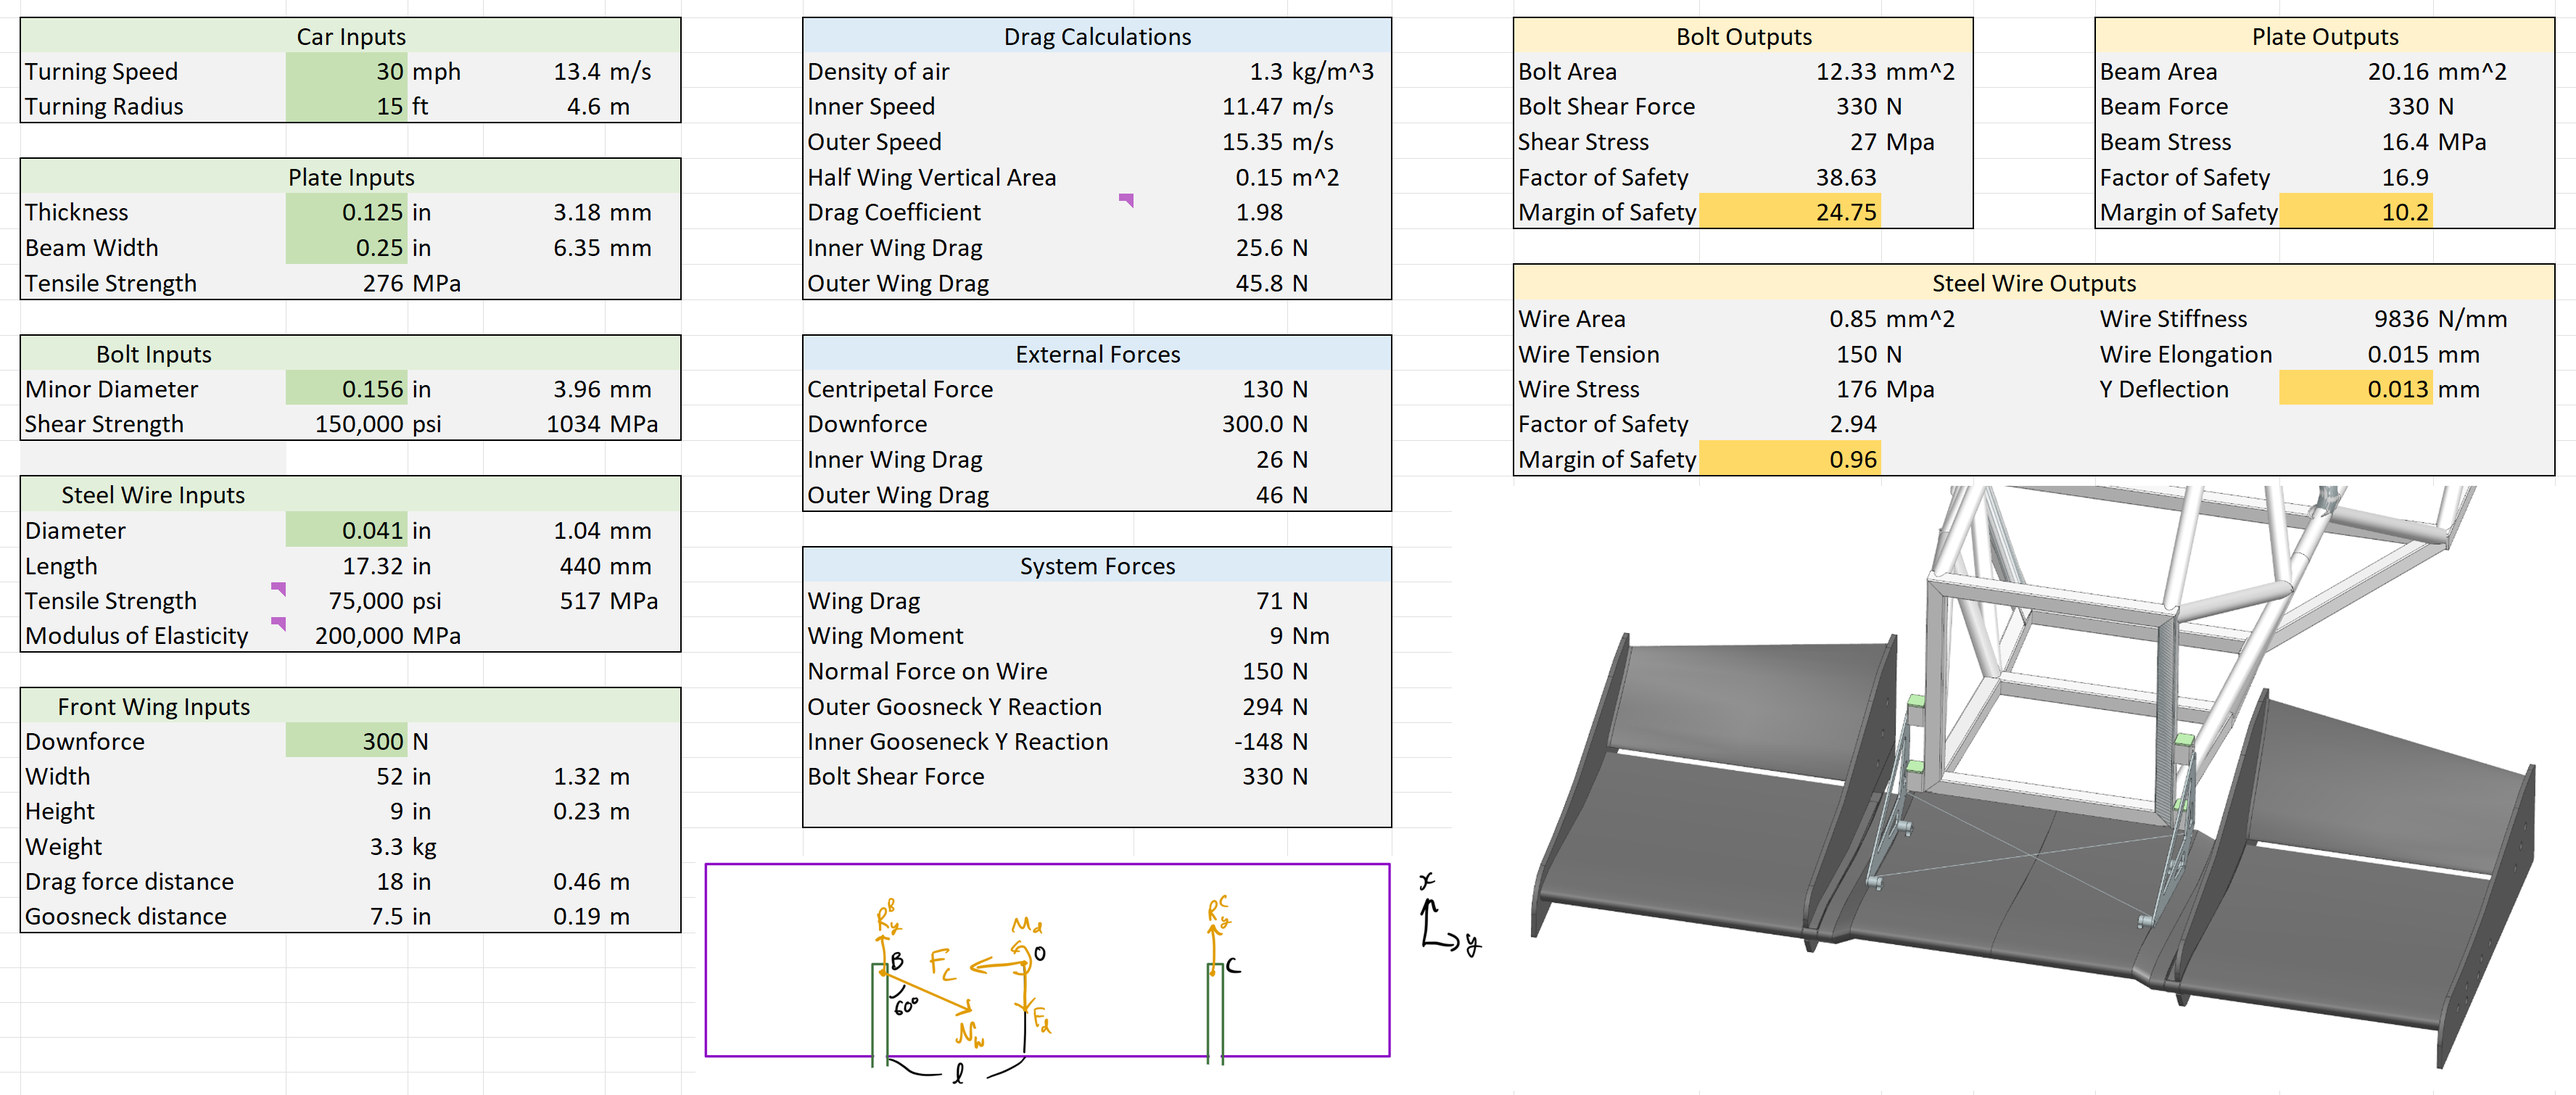
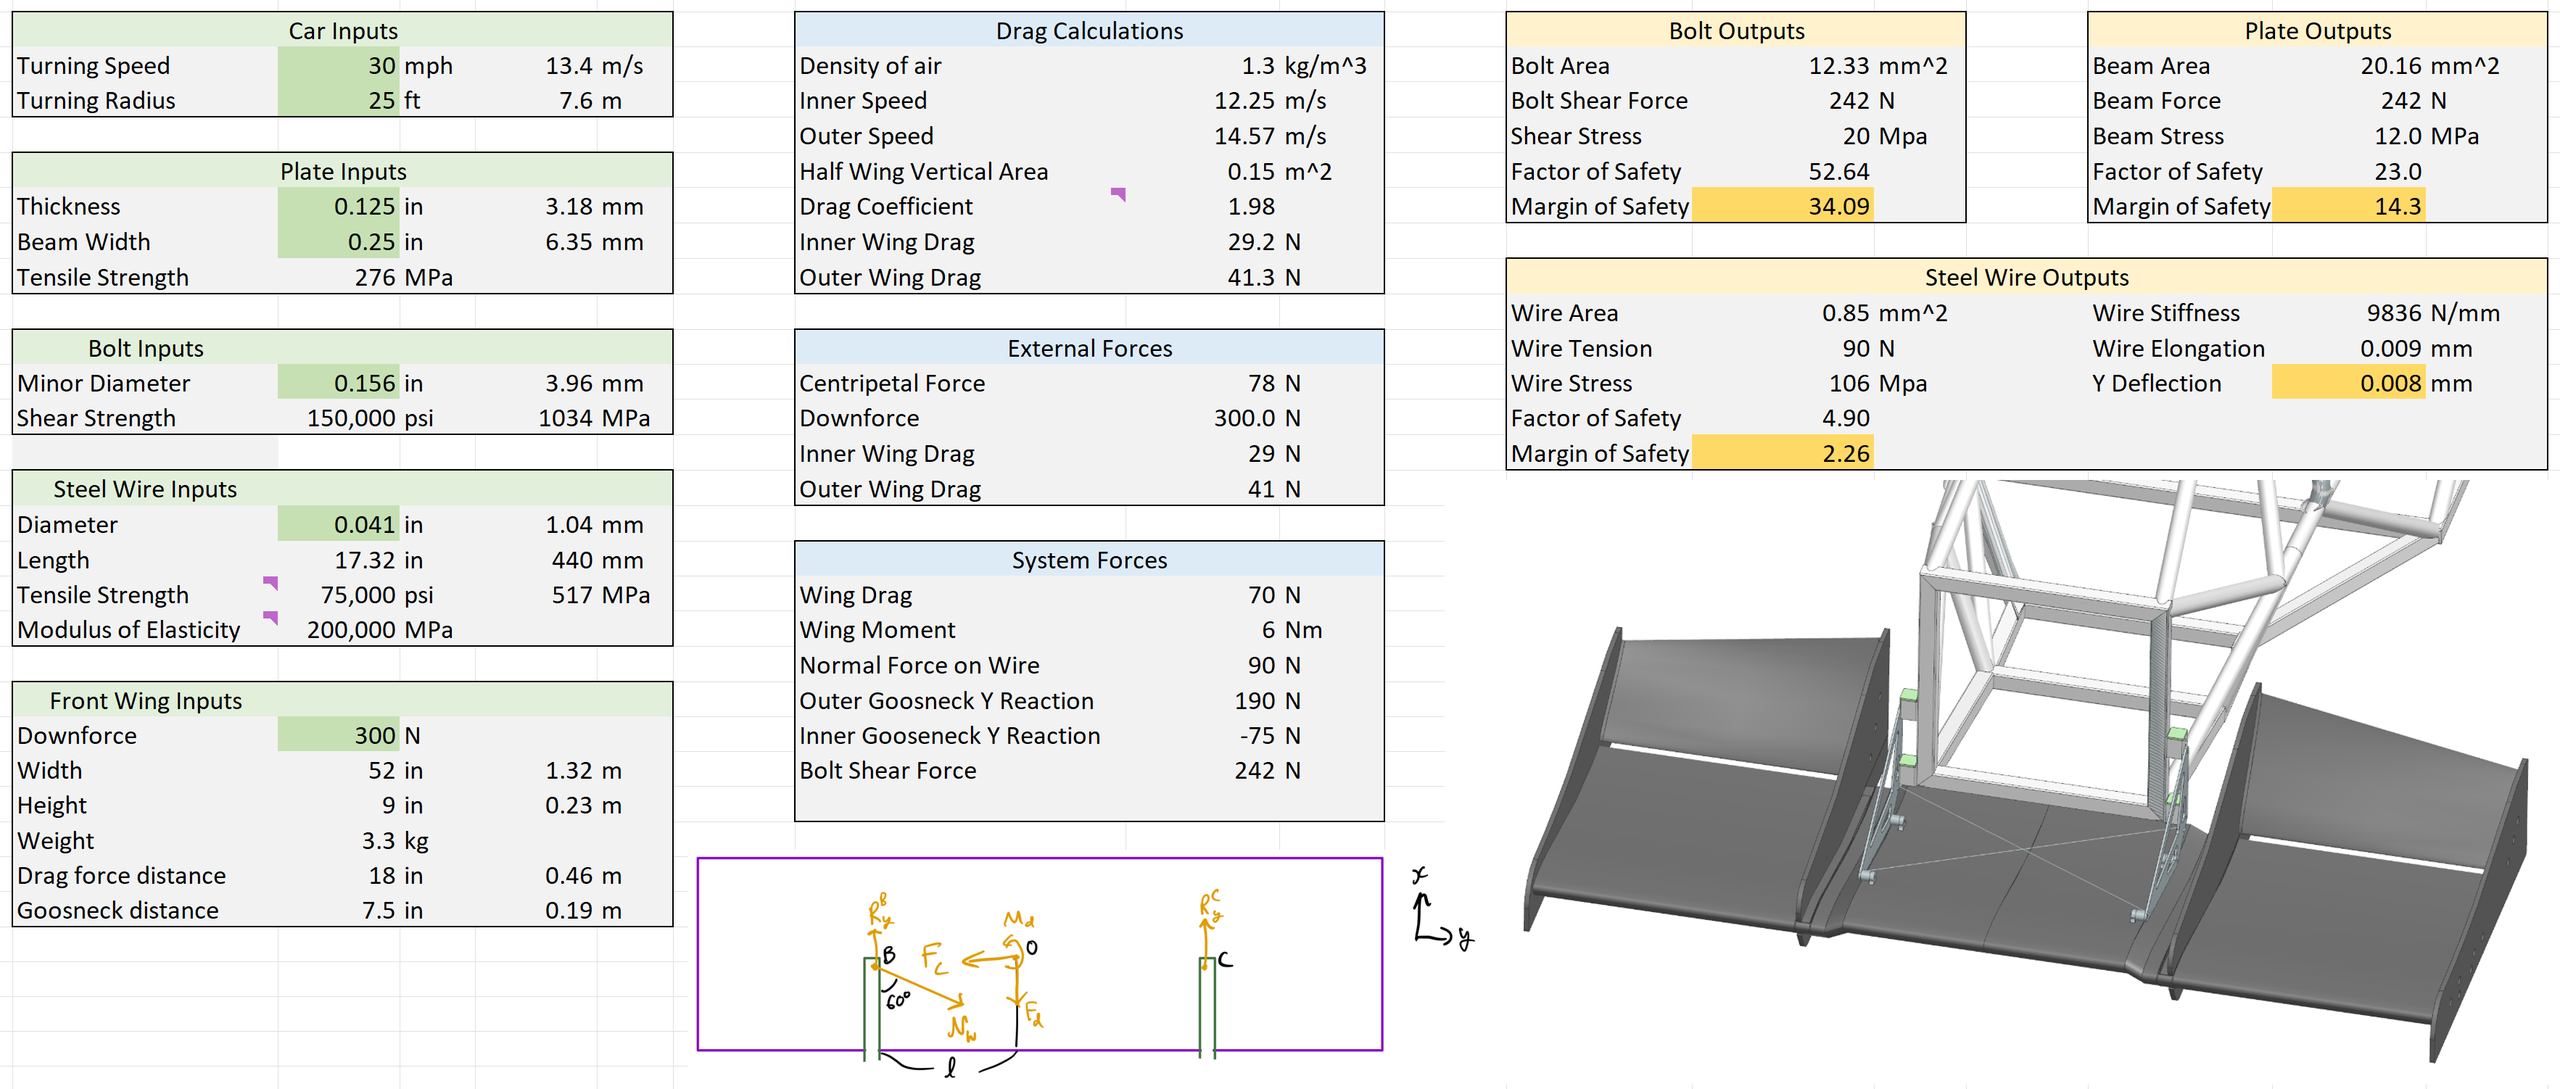
fwm update

diff --git a/content/projects/fwm/index.md b/content/projects/fwm/index.md
@@ -1,8 +1,8 @@
 ---
 title: Front Wing Mounting
 date: 2023-05-26
-description: "Using hand calcs to design efficient parts"
-summary: "Using hand calcs to design efficient parts"
+description: "Learning to design efficiently using hand calcs"
+summary: "Learning to design efficiently using hand calcs"
 draft: False
 series: ["MIT Motorsports"]
 series_order: 3
@@ -42,7 +42,7 @@ Unfortunately there wasn't time for a final DR before the front wing was manufac
 After DR2 I learned that the carbon fiber layups on our nosecone were done inaccurately, so the front wing mounting would need significantly more clearance than I had designed for. In hindsight, I should have checked with the aero team at the beginning to confirm the critical dimensions rather than blindly trusting CAD. 
 
 ## Design Requirements
-If the front wing touches the ground during a race, we'll be disqualified. The largest forces on the front wing will be while turning as tightly as possible as fast as possible. I conservatively decided to design for a worst-case scenario of making a 15 foot radius turn at 30 miles per hour.
+If the front wing touches the ground during a race, we'll be disqualified. The largest forces on the front wing will be while turning as tightly as possible as fast as possible. I conservatively decided to design for a worst-case scenario of making a 25 foot radius turn at 30 miles per hour. 
 
 It's also required by rules that the front wing mounting shears at 60 kilonewtons so that the impact attenuator can safely deccelerate the car if we crash. It's easily calculated that four 10-32 bolts will shear at this force.
 
@@ -50,11 +50,13 @@ It's also required by rules that the front wing mounting shears at 60 kilonewton
 
 In previous years, we mounted the front wing using its vertical panels. But this requires the vertical panels to be structural. To save weight, we used light panels and added mounting holes to the front wing's aluminum ribs.
 
-I also chose to use box tube and 3D printed inserts. In previous years, we machined dovetails that allowed the front wing to be taken on and off the car more easily. Dovetails are challenging to machine and only makes assembly marginally easier. Using box tube and 3D printed inserts with captured nuts still allows the front wing to be assembled without a wrench, but simplifies manufacturing significantly. Perhaps most importantly, the dovetail design would get caught on the nosecone as you tried to remove the front wing, making assembly extremely difficult.
+I also chose to use box tube and 3D printed inserts. In previous years, we machined dovetails that allowed the front wing to be taken on and off the car more easily. Dovetails are challenging to machine and only makes assembly marginally easier. Using box tube and 3D printed inserts with captured nuts still allows the front wing to be assembled without a wrench, but simplifies manufacturing significantly. Perhaps most importantly, the dovetail design would get caught on the nosecone as you tried to remove the front wing, making assembly difficult.
 
 I didn't want to have to set the car's ride height before welding the tubes on the car, so I included additional holes in the box tubes so the front wing can be moved up or down after the tubes are welded.
 
-Thin aluminum plates are very strong for in-plane forces, but they bend easily when out-of-plane forces or moments are applied. When the car is turning at high velocity, most of the drag is on the outer side of the wing, creating a z-axis moment in addition to the centripetal forces on the front wing. Increasing the plate's thickness or changing its material adds a lot of weight, so instead I added tensioned steel wire to eliminate out-of-plane forces on the aluminum plates.
+Thin aluminum plates are very strong for in-plane forces, but they bend easily when out-of-plane forces or moments are applied. When the car is turning at high velocity, most of the drag is on the outer side of the wing, creating a z-axis moment in addition to the centripetal forces on the front wing. This puts a bending load on the thin plates.
+
+Increasing the plate's thickness or changing its material adds a lot of weight, so instead I added tensioned steel wire to prevent the plates from bending.
 
 ![CAD](images/fwm_cad.png)
 
@@ -80,10 +82,19 @@ We had to make custom length spacers on the lathe because of a design change mad
 
 ![Assembly](featured.jpg)
 
+The front wing comes off the car with just four bolts.
+
+![Front Wing Off Car](images/fwm_offcar.jpg)
+![Front Wing Car](images/fwm_car.jpg)
+
+## Results
+
+The front wing didn't fall off during competition. But a different team's front wing fell off when they hit a cone and they ran the wing over. Hitting a cone gives you a time penalty, but the front wing falling off is a DQ. So instead of designing for the cornering loads, I should have designed for cone collision loads. 
+
 ## Conclusion
 
 I used mechanics principles to design a lightweight but strong front wing mounting solution that is easy to remove from the car. Here are some things I learned:
  - Changing materials or increasing thickness is often an inefficient way to increase strength
  - Take advantage of geometry (tensioned wire, I beams, etc)
  - Check critical dimensions in real life (sometimes CAD isn't accurate enough)
- - Hand calcs allow you to design way better parts
+ - Hand calcs help you understand what you're designing

diff --git a/content/projects/mrg/index.md b/content/projects/mrg/index.md
@@ -1,11 +1,11 @@
 ---
 title: Marine Robotics Group
 date: 2023-03-29
-description: "Reducing IMU drift with a 6-axis arm and deep learning"
-summary: "Reducing IMU drift with a 6-axis arm and deep learning"
+description: "Reducing IMU drift with a six-axis arm"
+summary: "Reducing IMU drift with a six-axis arm"
 ---
 
-I'm doing a UROP (undergraduate research) at the MIT Marine Robotics Group this semester. I'm trying to reduce drift for Inertial Measurement Units (IMUs) commonly used in underwater robots. My plan is to attach research-grade IMUs to a six-axis arm and simulate random robot movement. By comparing where the arm thinks it is with where the IMU thinks it is, I can train a machine learning model to reduce error in the IMUs.
+I did a UROP (undergraduate research) at the MIT Marine Robotics Group. I'm trying to reduce drift for Inertial Measurement Units (IMUs) commonly used in underwater robots. My plan is to attach research-grade IMUs to a six-axis arm and simulate random robot movement. By comparing where the arm thinks it is with where the IMU thinks it is, I can train a machine learning model to reduce error in the IMUs.
 
 These are the IMUs I am using.
 ![IMUs](images/imus.jpg)

diff --git a/content/projects/mags/index.md b/content/projects/mags/index.md
@@ -1,8 +1,8 @@
 ---
 title: Mags
 date: 2023-02-12
-description: "An unbeatable chess robot"
-summary: "An unbeatable chess robot"
+description: "An unbeatable chess robot that moves pieces using magnets"
+summary: "An unbeatable chess robot that moves pieces using magnets"
 series: ["Mags, Chess Robot"]
 series_order: 0
 ---
